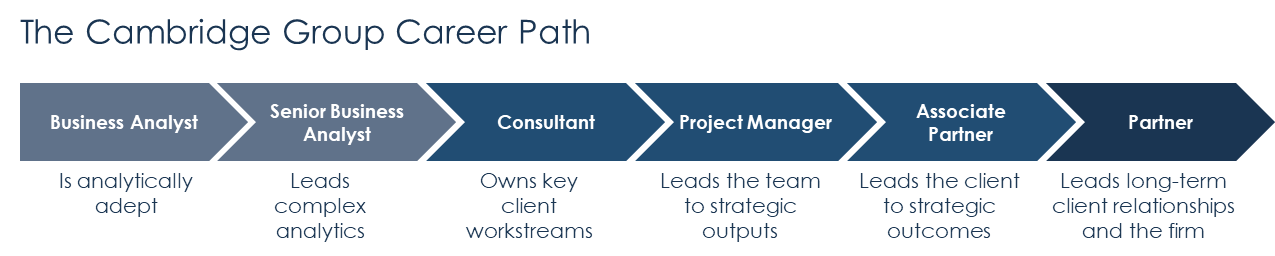
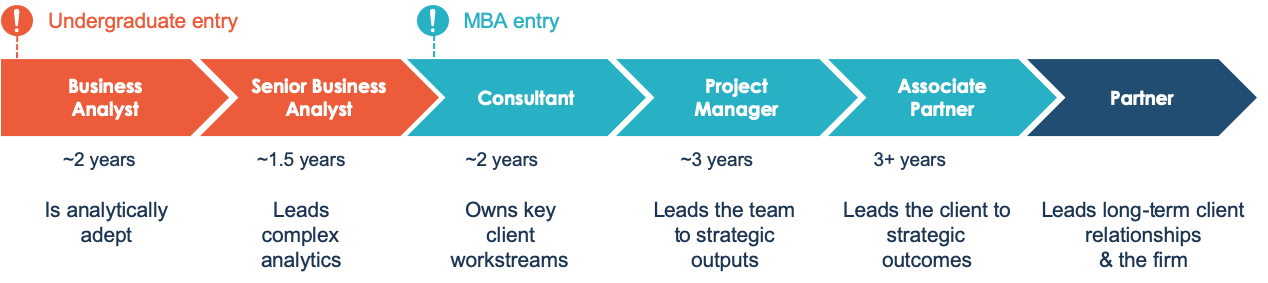
updates from jeremy

diff --git a/privacy-policy.html b/privacy-policy.html
@@ -1,7 +1,7 @@
 <!DOCTYPE HTML>
 <html lang="en">
     <head>
-        <link rel="stylesheet" href="styling/css/connect.css">
+        <link rel="stylesheet" href="styling/css/generic.css">
         <meta name="viewport" content="width=device-width, initial-scale=1.0, maximum-scale=1.0, user-scalable=yes" />
         <link rel="apple-touch-icon" sizes="57x57" href="img/icon/apple-icon-57x57.png">
         <link rel="apple-touch-icon" sizes="60x60" href="img/icon/apple-icon-60x60.png">
@@ -22,7 +22,7 @@
         <meta name="theme-color" content="#FFFFFF">
         <meta name="description" content="" />
         <meta name="keywords" content="" />
-        <title>Connect - The Cambridge Group</title>
+        <title>Privacy Policy - The Cambridge Group</title>
     </head>
 
     <body>
@@ -198,36 +198,25 @@
 
         <!-- Beginning of Body -->
 
-        <div class="section-header" style="background-image: url(img/bround-connect-1.jpg);">
-            <div class="section-container">
-                <h1>Connect</h1>
+        <div class="empty-header"></div>
+        <div class="title-wrap">
+            <div class="title">
+                <h1>Privacy Policy</h1>
             </div>
         </div>
 
-        <div class="section page-desc">
-            <div class="section-content page-desc-content">
-                <h2>Contact Details</h2>
-                <div class="basics-section-content">
-                    <div class="part">
-                        <p class="header">Headquarters</p>
-                        <p>10 S. Wacker Dr. <br>Suite 3550 <br>Chicago, IL 60606</p>
-                    </div>
-                    <div class="part">
-                        <p class="header">Contact</p>
-                        <p>(312) 425-3600 <br><a href="mailto:info@thecambridgegroup.com">info@thecambridgegroup.com</a></p>
-                    </div>
+        <div class="section">
+            <div class="section-content">
+                <div class="content-area">
+                    <h4>Team-based work</h4>
+                    <p>Like most consulting firms, your work at TCG is structured around project teams.  In entry-level roles, you are typically assigned to one project at a time to allow you to focus on learning as much as you can about one client’s business.</p>
+                    <p>As you progress in your career, you’ll find that you begin to split your time across 2 or even 3 projects as an experienced Manager and Director.</p>
+                    <p>Consulting is an apprenticeship at its core, so our consultants learn best by doing and by observing more experienced team members.  On the job training is the key to success and career advancement.</p>
+                    <p>Our Partners are hands-on, frequently participating in team meetings and brainstorming sessions so you can learn from our most experienced strategists.</p>
+                    <p>Business Analyst and Consultant peer groups are incredibly strong at TCG, particularly due to our office-based model.  Since our teams don’t travel every week, you’ll have a chance to get to know your peers, swap project stories over lunch and ask them for help on your most</p>
+                    <h4>Work/life balance</h4>
+                    <p>At TCG, we foster a model built around sustainable travel.  Our teams don’t travel every week by definition, but rather schedule client meetings, workshops and more informal discussions based on individual client needs.  Some clients look for formal meetings every few weeks with more periodic check-ins via phone.  Other clients expect consulting teams to be on-site 2-3 days each week.  Client service always comes first, but our sustainable travel mindset helps our teams optimize productivity in the office and client relationship management on-site while maintaining a sustainable work life balance.</p>
                 </div>
-
-                <form accept-charset="UTF-8" method="POST" id="contact-form">
-                    <h2>Get in touch with us</h2>
-                    <p class="title">Name</p>
-                    <input type="text" name="name" required="required" id="name" />
-                    <p class="title">Email</p>
-                    <input type="email" name="email" required="required" id="email">
-                    <p class="title">Message</p>
-                    <textarea name="message" required="required"></textarea>
-                    <input type="submit" name="submit" value="Submit" />
-                </form>
             </div>
         </div>
 

diff --git a/careers/how-we-do-it.html b/careers/how-we-do-it.html
@@ -214,9 +214,9 @@
                     <p>As you progress in your career, you’ll find that you begin to split your time across 2 or even 3 projects as an experienced Manager and Director.</p>
                     <p>Consulting is an apprenticeship at its core, so our consultants learn best by doing and by observing more experienced team members.  On the job training is the key to success and career advancement.</p>
                     <p>Our Partners are hands-on, frequently participating in team meetings and brainstorming sessions so you can learn from our most experienced strategists.</p>
-                    <p>Business Analyst and Consultant peer groups are incredibly strong at TCG, particularly due to our office-based model.  Since our teams don’t travel every week, you’ll have a chance to get to know your peers, swap project stories over lunch and ask them for help on your most</p>
+                    <p>Business Analyst and Consultant peer groups are incredibly strong at TCG, particularly due to our office-based model.  Since our teams don’t travel every week, you’ll have a chance to get to know your peers, swap project stories over lunch and ask them for help when you encounter challenges.</p>
                     <h4>Work/life balance</h4>
-                    <p>At TCG, we foster a model built around sustainable travel.  Our teams don’t travel every week by definition, but rather schedule client meetings, workshops and more informal discussions based on individual client needs.  Some clients look for formal meetings every few weeks with more periodic check-ins via phone.  Other clients expect consulting teams to be on-site 2-3 days each week.  Client service always comes first, but our sustainable travel mindset helps our teams optimize productivity in the office and client relationship management on-site while maintaining a sustainable work life balance.</p>
+                    <p>At TCG, we foster a model built around sustainable travel.  Our teams don’t travel every week by definition, but rather schedule client meetings, workshops and more informal discussions based on individual client needs.  Some clients look for formal meetings every few weeks with more periodic check-ins via phone. Client service always comes first, but our sustainable travel mindset helps our teams optimize productivity in the office and client relationship management on-site while maintaining a sustainable work life balance.</p>
                 </div>
 
                 <div class="button-nav">
@@ -255,7 +255,7 @@
                     </div>
                 </div>
                 <div class="bottom-footer">
-                    <p class="left"><a href="">Privacy Policy</a></p>
+                    <p class="left"><a href="../privacy-policy.html">Privacy Policy</a></p>
                     <p class="right">&copy; <span id="date-target">2020</span> The Cambridge Group</p>
                 </div>
             </div>

diff --git a/careers/ideal-candidate.html b/careers/ideal-candidate.html
@@ -210,14 +210,14 @@
                 <div class="content-area">
                     <img src="../img/ideal-candidate.jpg" alt="" />
                     <h4>Are you the ideal candidate?</h4>
-                    <p>We hire remarkable individuals with a passion for consulting, appetite for success, and an unquenchable sense of curiosity. No one quality defines a successful consultant, but these are the characteristics we look for in an ideal candidate:</p>
+                    <p>We hire individuals with a passion for the type of work we do, a drive for success and a strong sense of curiosity. No one quality defines a successful consultant, but these are the characteristics we look for in an ideal candidate:</p>
                     <ul>
                         <li><b>Problem solving:</b> Our consultants help leaders solve their most complex business challenges. We look for candidates with top-notch intellectual abilities, as well as an innovative approach to achieving results.</li>
                         <li><b>Impact:</b> If you are committed to positively affecting an organization’s success, then you’ve come to the right place. We have a proud legacy of generating quantifiable results that affect our client’s bottom line.</li>
                         <li><b>Leadership:</b> At The Cambridge Group, leadership is not fixed to hierarchy or experience. Your voice and ideas are respected regardless of your tenure. Leadership skills are critical to driving positive change within an organization.</li>
                         <li><b>Creativity:</b> We look for out-of-the-box thinkers that have the ability to transcend traditional patterns, rules, and ideas, in order to draw insights from ambiguity and help The Cambridge Group deliver meaningful results.</li>
                     </ul>
-                    <p>Our consultants are recognized worldwide for their unique approach to growth and demand strategy. They are accomplished innovators with diverse backgrounds, experiences, and life passions. Join our team.</p>
+                    <p>Our consultants are recognized worldwide for their unique approach to growth and demand strategy. They are accomplished innovators with diverse backgrounds, experiences, and life passions. Join our team.</p>
                 </div>
 
                 <div class="button-nav">
@@ -256,7 +256,7 @@
                     </div>
                 </div>
                 <div class="bottom-footer">
-                    <p class="left"><a href="">Privacy Policy</a></p>
+                    <p class="left"><a href="../privacy-policy.html">Privacy Policy</a></p>
                     <p class="right">&copy; <span id="date-target">2020</span> The Cambridge Group</p>
                 </div>
             </div>

diff --git a/careers/career-progression.html b/careers/career-progression.html
@@ -210,9 +210,9 @@
                 <div class="content-area">
                     <img src="../img/career-progression.jpg" alt="" />
                     <h4>Career progression</h4>
-                    <p>All consultants at The Cambridge Group fill one of six roles.</p>
+                    <p>All consultants at The Cambridge Group fill one of five roles.</p>
                     <p>On-campus recruits with undergraduate degrees begin in the Business Analyst role while MBA candidates are hired as Consultants. For experienced hires, your initial roles at The Cambridge Group will vary by the nature and length of prior job experience.</p>
-                    <p>The Cambridge Group is a meritocracy, so although consultants typically spend at least two years in any given role, it is not uncommon to progress more quickly. Likewise, while other firms require an MBA degree to reach the consultant level, many of our analysts have been promoted without a graduate degree.</p>
+                    <p>The Cambridge Group is a meritocracy, so although consultants typically spend at least 1.5-2 years in any given role, it is not uncommon to progress more quickly. Likewise, while other firms require an MBA degree to reach the consultant level, many of our analysts have been promoted without a graduate degree.</p>
                     <img src="../img/progression.png" alt="career progression at TCG" />
                 </div>
 
@@ -252,7 +252,7 @@
                     </div>
                 </div>
                 <div class="bottom-footer">
-                    <p class="left"><a href="">Privacy Policy</a></p>
+                    <p class="left"><a href="../privacy-policy.html">Privacy Policy</a></p>
                     <p class="right">&copy; <span id="date-target">2020</span> The Cambridge Group</p>
                 </div>
             </div>

diff --git a/about.html b/about.html
@@ -310,9 +310,7 @@
                         </div>
                         <div class="left">
                             <h2>Nielsen Connected Partner</h2>
-                            <p>Lorem ipsum dolor sit amet consectetur adipisicing elit. Sed officiis nostrum cumque quos adipisci optio fuga. Voluptates qui tenetur officiis repellendus perspiciatis, ut unde corrupti suscipit exercitationem facilis, eligendi ea.</p>
-                            <p>Lorem ipsum dolor sit amet consectetur adipisicing elit. Sed officiis nostrum cumque quos adipisci optio fuga. Voluptates qui tenetur officiis repellendus perspiciatis, ut unde corrupti suscipit exercitationem facilis, eligendi ea.</p>
-                            <p>Lorem ipsum dolor sit amet consectetur adipisicing elit. Sed officiis nostrum cumque quos adipisci optio fuga. Voluptates qui tenetur officiis repellendus perspiciatis, ut unde corrupti suscipit exercitationem facilis, eligendi ea.</p>
+                            <p>After 10 years as Nielsen subsidiary, TCG's leadership team conducted a management buyout in 2019. We continue to maintain a close working relationship with Nielsen as a Nielsen Connected Partner. Our growth strategy frameworks, coupled with Nielsen data and analytics, provide a powerful combination for our clients.</p>
                         </div>
                     </div>
                 </div>
@@ -430,7 +428,7 @@
                     </div>
                 </div>
                 <div class="bottom-footer">
-                    <p class="left"><a href="">Privacy Policy</a></p>
+                    <p class="left"><a href="privacy-policy.html">Privacy Policy</a></p>
                     <p class="right">&copy; <span id="date-target">2020</span> The Cambridge Group</p>
                 </div>
             </div>

diff --git a/careers/what-we-do.html b/careers/what-we-do.html
@@ -210,7 +210,7 @@
                 <div class="content-area">
                     <img src="../img/what-we-do.jpg" alt="" />
                     <h4>The Cambridge Group is distinctive in the work we do, the clients we serve and the people we attract.</h4>
-                    <p>For over 40 years, The Cambridge Group has helped clients develop and execute strategies that are driven by a superior understanding of profitable demand. The Cambridge Group’s strategy consultants apply Demand Strategy across all industries, enabling clients to align their infrastructure, businesses, and resources to meet marketplace demand in a way that is meaningfully differentiated from their competitors.</p>
+                    <p>For over 40 years, The Cambridge Group has helped clients develop and execute strategies that are driven by a superior understanding of profitable demand. Our consultants apply demand driven strategies across all industries, enabling clients to align their infrastructure, businesses, and resources to meet marketplace demand in a way that is meaningfully differentiated from their competitors.</p>
                     <p>Many have come to The Cambridge Group because we offer:</p>
                     <ul>
                         <li>An opportunity to focus exclusively on Demand Strategy and growth strategy work</li>
@@ -259,7 +259,7 @@
                     </div>
                 </div>
                 <div class="bottom-footer">
-                    <p class="left"><a href="">Privacy Policy</a></p>
+                    <p class="left"><a href="../privacy-policy.html">Privacy Policy</a></p>
                     <p class="right">&copy; <span id="date-target">2020</span> The Cambridge Group</p>
                 </div>
             </div>

diff --git a/about/our-team.html b/about/our-team.html
@@ -22,7 +22,7 @@
         <meta name="theme-color" content="#FFFFFF">
         <meta name="description" content="" />
         <meta name="keywords" content="" />
-        <title>The Cambridge Group - Our Team</title>
+        <title>Our team - The Cambridge Group</title>
     </head>
 
     <body>
@@ -200,7 +200,7 @@
 
         <div class="section-header" style="background-image: url(../img/bround3.jpg);">
             <div class="section-container">
-                <h1>Our Team</h1>
+                <h1>Our team</h1>
             </div>
         </div>
 
@@ -215,7 +215,7 @@
             <div class="section-content people-section-content">
                 <div class="grid-wrapper">
                     <div class="grid">
-                        <h1 class="our-team-header-text">Leadership Team</h1>
+                        <h1 class="our-team-header-text">Leadership team</h1>
                         <div class="person-wrapper">
                             <div class="person"><a href="our-team/member-item.html">
                                 <img src="../img/eckels-jim.jpg" alt="Name" />
@@ -372,7 +372,7 @@
                     </div>
                 </div>
                 <div class="bottom-footer">
-                    <p class="left"><a href="">Privacy Policy</a></p>
+                    <p class="left"><a href="../privacy-policy.html">Privacy Policy</a></p>
                     <p class="right">&copy; <span id="date-target">2020</span> The Cambridge Group</p>
                 </div>
             </div>

diff --git a/careers/apply.html b/careers/apply.html
@@ -213,7 +213,7 @@
                     <p>Most of our hiring is done via on-campus recruiting, primarily at Northwestern and University of Chicago.  Our undergraduate hires join us as Business Analysts and MBA hires begin their TCG careers as Consultants.</p>
                     <p>If you are attending one of our core schools, you can apply via your on-campus system.</p>
                     <p>If you are attending a non-core school or are an experienced hire, you can contact the recruiting coordinator at The Cambridge Group below.</p>
-                    <a href=""><button>Email recruiting coordinator</button></a>
+                    <a href="mailto:careers@thecambridgegroup.com"><button>Email recruiting coordinator</button></a>
                 </div>
 
             </div>
@@ -249,7 +249,7 @@
                     </div>
                 </div>
                 <div class="bottom-footer">
-                    <p class="left"><a href="">Privacy Policy</a></p>
+                    <p class="left"><a href="../privacy-policy.html">Privacy Policy</a></p>
                     <p class="right">&copy; <span id="date-target">2020</span> The Cambridge Group</p>
                 </div>
             </div>

diff --git a/styling/css/generic.css b/styling/css/generic.css
@@ -1064,22 +1064,5 @@ button:hover {
     font-size: 1.8em;
   }
 }
-.button-nav {
-  margin-top: 48px;
-  display: flex;
-  flex-direction: row-reverse;
-  justify-content: flex-start;
-  align-items: flex-start;
-}
 
-.section .section-content {
-  padding: 18px 36px 48px 36px;
-}
-
-@media (max-width: 500px) {
-  .section .section-content {
-    padding: 12px 18px 24px 18px;
-  }
-}
-
-/*# sourceMappingURL=careers-item.css.map */
+/*# sourceMappingURL=generic.css.map */

diff --git a/about/our-team/member-item.html b/about/our-team/member-item.html
@@ -263,7 +263,7 @@
                     </div>
                 </div>
                 <div class="bottom-footer">
-                    <p class="left"><a href="">Privacy Policy</a></p>
+                    <p class="left"><a href="../../privacy-policy.html">Privacy Policy</a></p>
                     <p class="right">&copy; <span id="date-target">2020</span> The Cambridge Group</p>
                 </div>
             </div>

diff --git a/capabilities/featured-solutions/solution-item.html b/capabilities/featured-solutions/solution-item.html
@@ -285,7 +285,7 @@
                     </div>
                 </div>
                 <div class="bottom-footer">
-                    <p class="left"><a href="">Privacy Policy</a></p>
+                    <p class="left"><a href="../privacy-policy.html">Privacy Policy</a></p>
                     <p class="right">&copy; <span id="date-target">2020</span> The Cambridge Group</p>
                 </div>
             </div>

diff --git a/posts/insights.html b/posts/insights.html
@@ -333,7 +333,7 @@
                     </div>
                 </div>
                 <div class="bottom-footer">
-                    <p class="left"><a href="">Privacy Policy</a></p>
+                    <p class="left"><a href="../privacy-policy.html">Privacy Policy</a></p>
                     <p class="right">&copy; <span id="date-target">2020</span> The Cambridge Group</p>
                 </div>
             </div>
